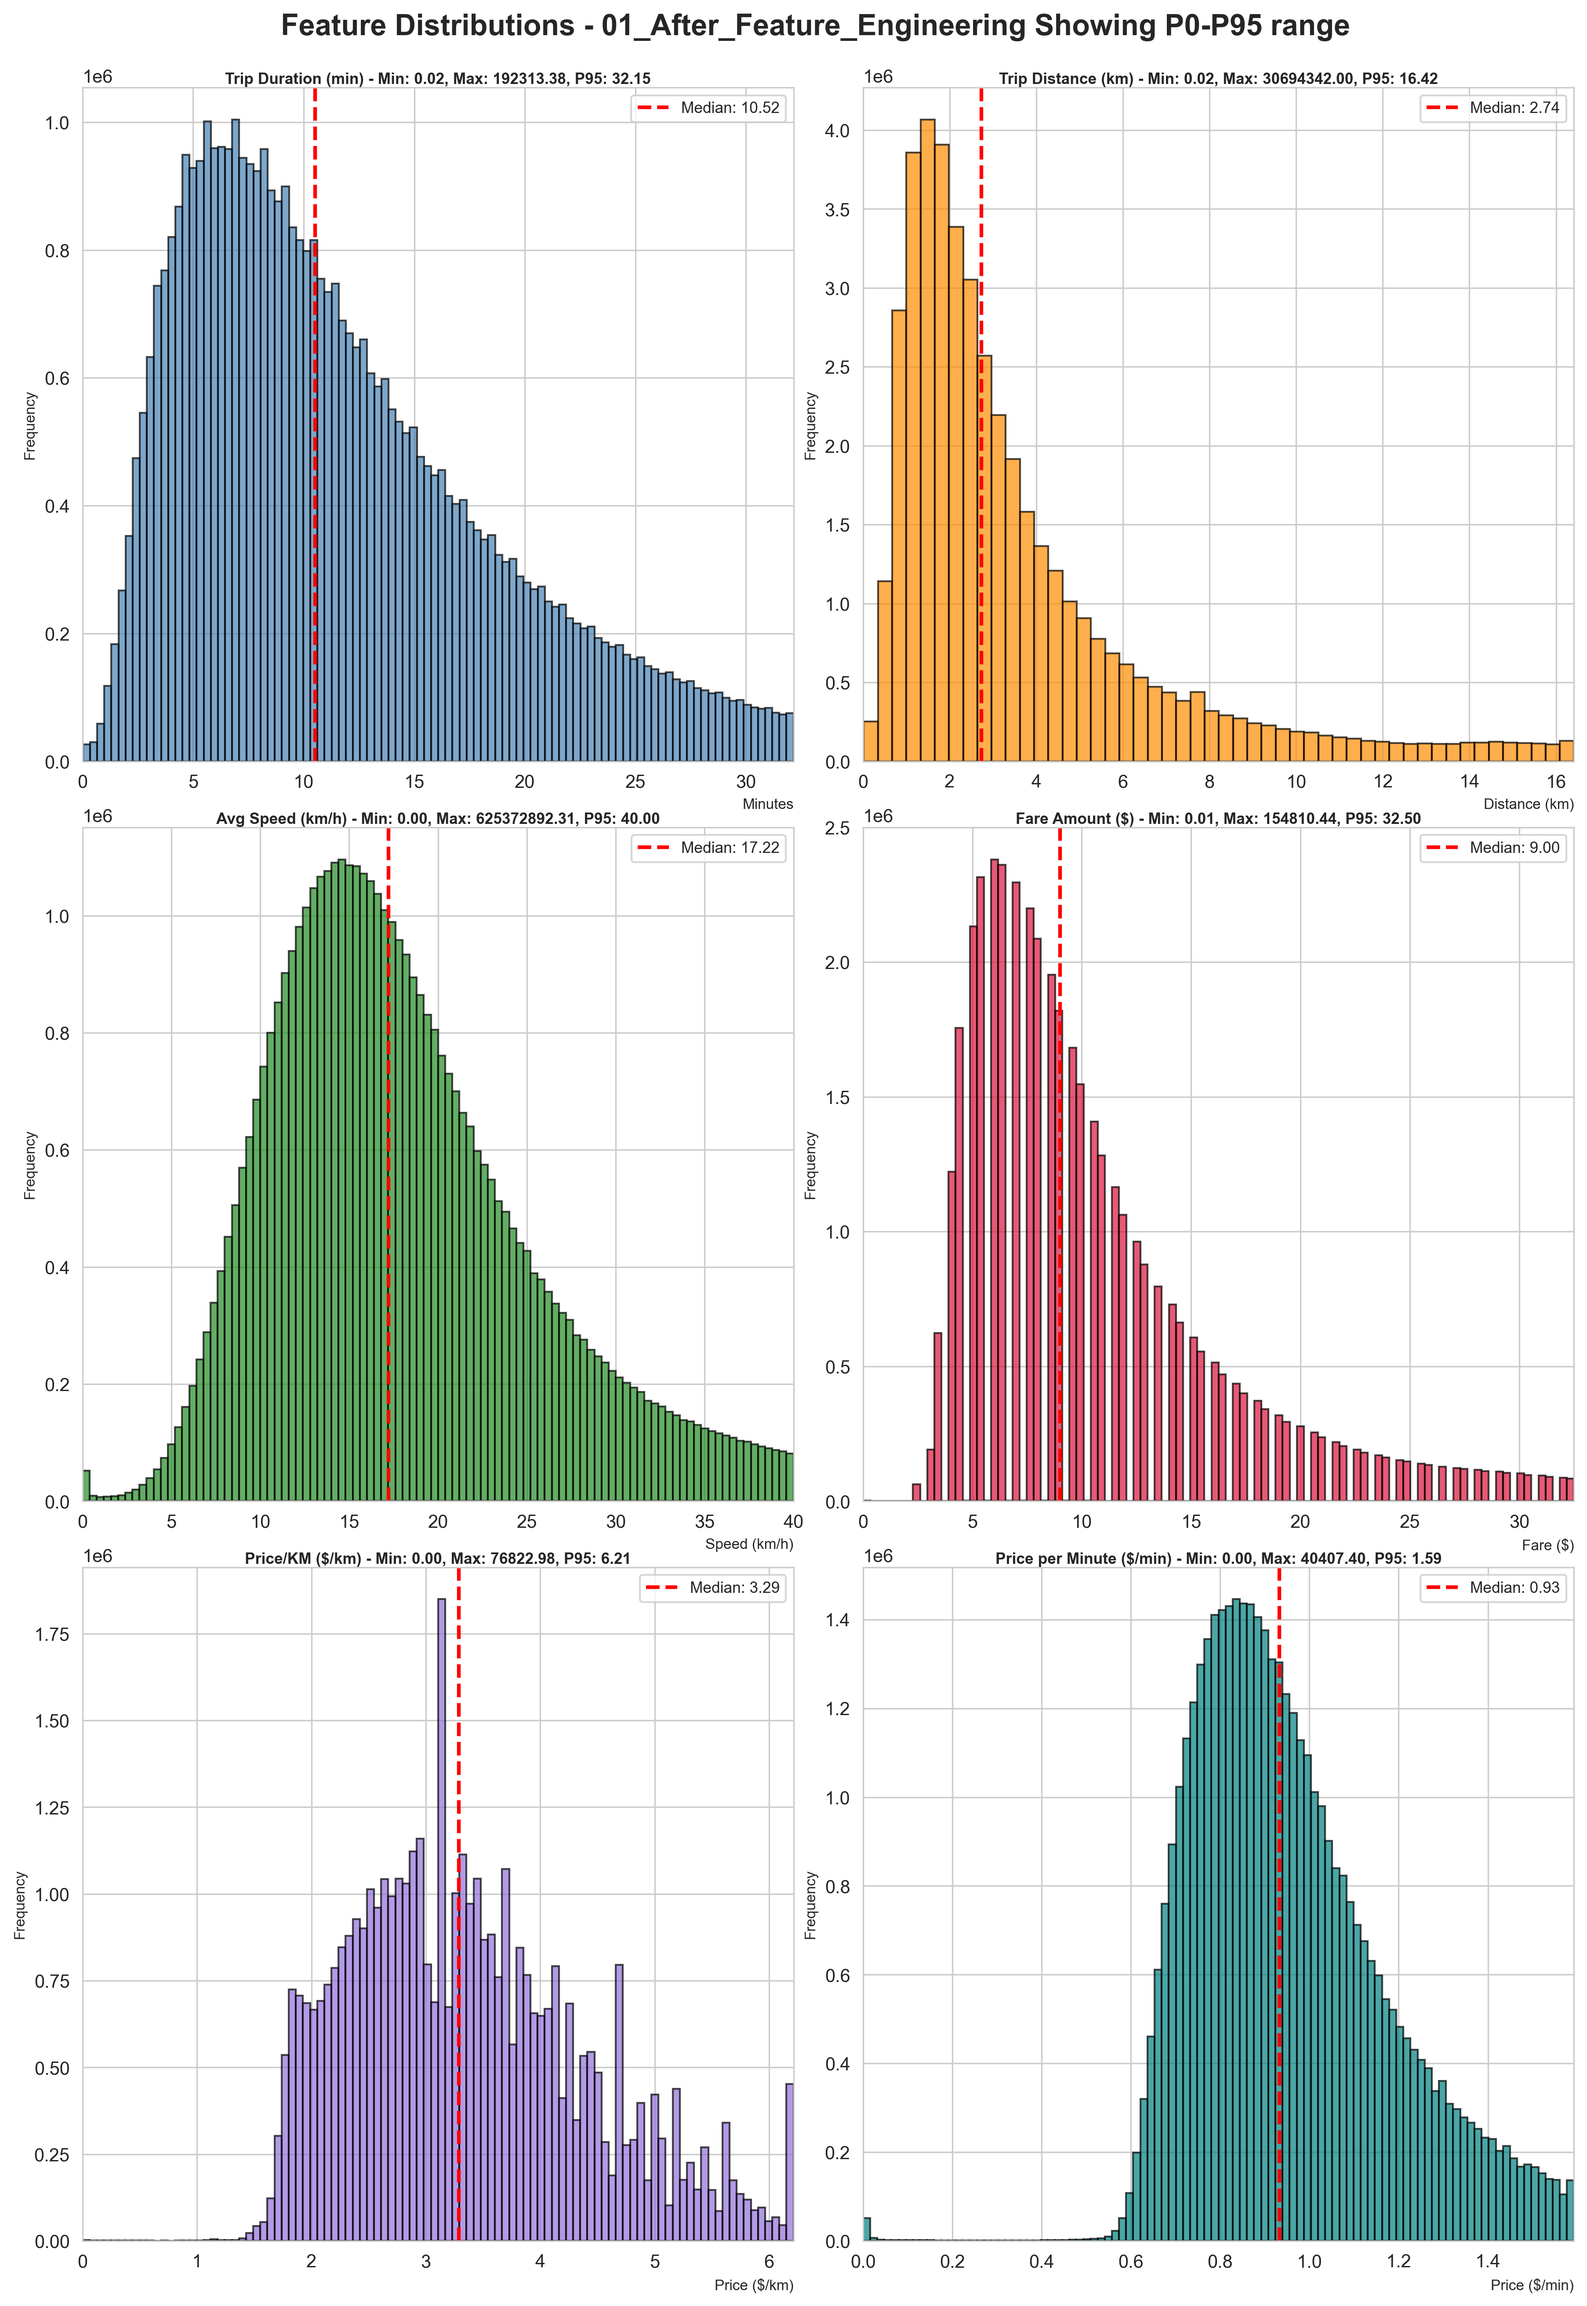
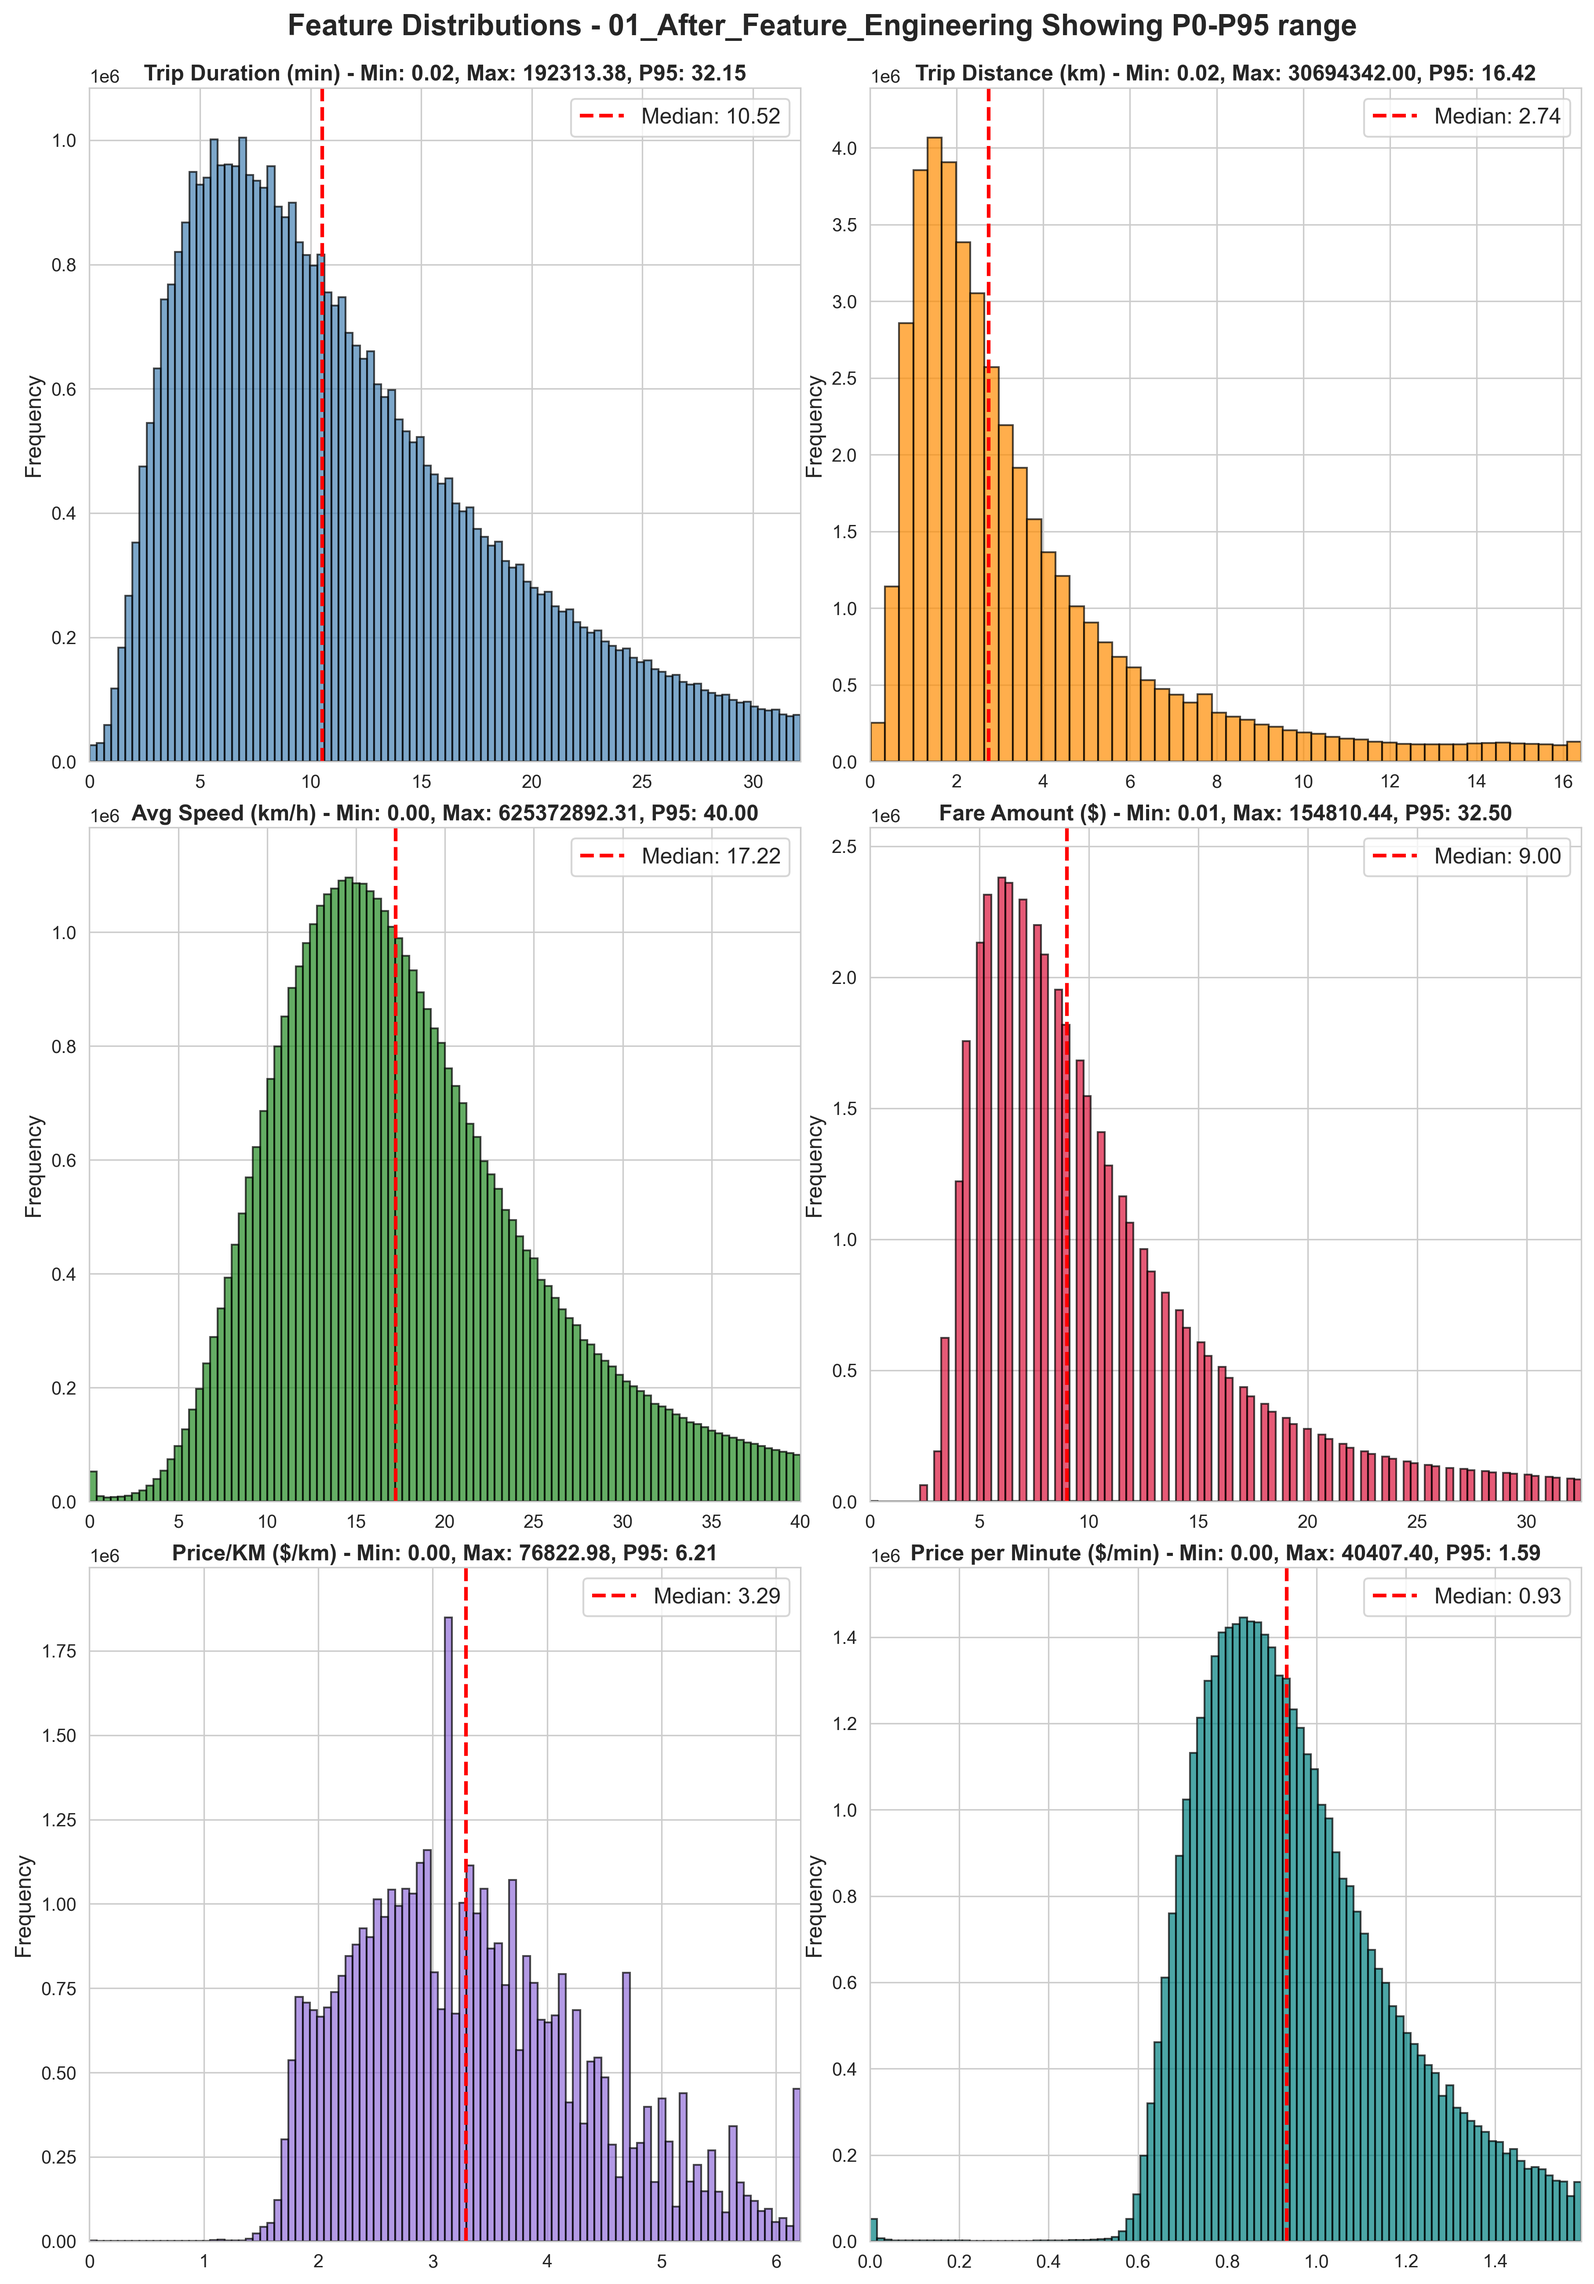
save the project

diff --git a/C_00_cleaning_pipeline_with_visualizations.py b/C_00_cleaning_pipeline_with_visualizations.py
@@ -212,11 +212,10 @@ def safe_histogram(ax, data, title, bins=100, color='steelblue', xlabel='Value')
     ax.set_xlim(left=0, right=p95)
 
     ax.set_title(f'{title} - Min: {data_clean.min():.2f}, Max: {data_clean.max():.2f}, P95: {p95:.2f}',
-                 fontweight='bold', fontsize=8.5, pad=2, linespacing=1.0)
-    ax.set_xlabel(xlabel, fontsize=8, loc='right')
-    ax.set_ylabel('Frequency', fontsize=8)
-    ax.legend(fontsize=8.5, loc='upper right')
-    ax.margins(x=0.02, y=0.05)
+                 fontweight='bold', fontsize=12, pad=4, linespacing=1.0)
+    ax.set_ylabel('Frequency', fontsize=12)
+    ax.legend(fontsize=12, loc='upper right')
+    ax.margins(x=0.02, y=0.08)
 
 
 def visualize_feature_distributions(df, output_path, stage="raw", orientation='horizontal'):

diff --git a/C_02_1_forecasting_pipeline.py b/C_02_1_forecasting_pipeline.py
@@ -327,7 +327,7 @@ class SARIMAPredictor:
         self.fitted = False
         self.train_data = None
     
-    def fit(self, train_data: pd.Series, order=(1,1,1), seasonal_order=(1,1,1,24)):
+    def fit(self, train_data: pd.Series, order=(1,1,1), seasonal_order=(1,1,1,168)):
         """Fit SARIMA model"""
         try:
             self.train_data = train_data.copy()

diff --git a/README.md b/README.md
@@ -10,4 +10,4 @@ pip install -r requirements.txt
 - C_00_demand_analysis.py - Demand distribution analysis & tier classification
 - C_01_1_hierarchical_clustering.py - Spatiotemporal clustering with K-Means and HDBSCAN
 - C_01_2_cleanup_checkpoints.py - Checkpoint management utility (if needed to delete checkpoint and start from scratch)
-- C_02_1_pipeline_upd.py - SARIMA + XGBoost + LSTM forecasting models
+- C_02_1_forecasting_pipeline.py - SARIMA + XGBoost + LSTM forecasting models
